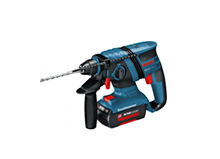
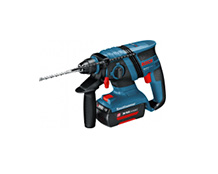
Размер 218х174

Changed region(s): [[0.1651, 0.2264, 0.7706, 0.8302]]

diff --git a/catalog.html b/catalog.html
@@ -65,7 +65,7 @@
             </h3>
             <p class="catalog-item-image">
               <a href="#">
-                <img src="img/produkt-1.jpg" width="220" height="159" alt="Перфоратор BOSCH BFG 3000">
+                <img src="img/produkt-1.jpg" width="218" height="174" alt="Перфоратор BOSCH BFG 3000">
               </a>
               <a class="button" href="#">Купить</a>
               <a class="button" href="#">В закладки</a>
@@ -81,7 +81,7 @@
             </h3>
             <p class="catalog-item-image">
               <a href="#">
-                <img src="img/produkt-2.jpg" width="220" height="159" alt="Перфоратор BOSCH BFG 6000">
+                <img src="img/produkt-2.jpg" width="218" height="174" alt="Перфоратор BOSCH BFG 6000">
               </a>
               <a class="button" href="#">Купить</a>
               <a class="button" href="#">В закладки</a>
@@ -97,7 +97,7 @@
             </h3>
             <p class="catalog-item-image">
               <a href="#">
-                <img src="img/produkt-1.jpg" width="220" height="159" alt="Перфоратор BOSCH BFG 2000">
+                <img src="img/produkt-1.jpg" width="218" height="174" alt="Перфоратор BOSCH BFG 2000">
               </a>
               <a class="button" href="#">Купить</a>
               <a class="button" href="#">В закладки</a>
@@ -112,7 +112,7 @@
             </h3>
             <p class="catalog-item-image">
               <a href="#">
-              <img src="img/produkt-1.jpg" width="220" height="159" alt="Перфоратор BOSCH BFG 3000">
+              <img src="img/produkt-1.jpg" width="218" height="174" alt="Перфоратор BOSCH BFG 3000">
               </a>
               <a class="button" href="#">Купить</a>
               <a class="button" href="#">В закладки</a>
@@ -128,7 +128,7 @@
             </h3>
             <p class="catalog-item-image">
               <a href="#">
-                <img src="img/produkt-2.jpg" width="220" height="159" alt="Перфоратор BOSCH BFG 6000">
+                <img src="img/produkt-2.jpg" width="218" height="174" alt="Перфоратор BOSCH BFG 6000">
               </a>
               <a class="button" href="#">Купить</a>
               <a class="button" href="#">В закладки</a>
@@ -144,7 +144,7 @@
             </h3>
             <p class="catalog-item-image">
               <a href="#">
-                <img src="img/produkt-1.jpg" width="220" height="159" alt="Перфоратор BOSCH BFG 2000">
+                <img src="img/produkt-1.jpg" width="218" height="174" alt="Перфоратор BOSCH BFG 2000">
               </a>
               <a class="button" href="#">Купить</a>
               <a class="button" href="#">В закладки</a>
@@ -159,7 +159,7 @@
             </h3>
             <p class="catalog-item-image">
               <a href="#">
-              <img src="img/produkt-1.jpg" width="220" height="159" alt="Перфоратор BOSCH BFG 3000">
+              <img src="img/produkt-1.jpg" width="218" height="174" alt="Перфоратор BOSCH BFG 3000">
               </a>
               <a class="button" href="#">Купить</a>
               <a class="button" href="#">В закладки</a>
@@ -175,7 +175,7 @@
             </h3>
             <p class="catalog-item-image">
               <a href="#">
-                <img src="img/produkt-2.jpg" width="220" height="159" alt="Перфоратор BOSCH BFG 6000">
+                <img src="img/produkt-2.jpg" width="218" height="174" alt="Перфоратор BOSCH BFG 6000">
               </a>
               <a class="button" href="#">Купить</a>
               <a class="button" href="#">В закладки</a>
@@ -191,7 +191,7 @@
             </h3>
             <p class="catalog-item-image">
               <a href="#">
-                <img src="img/produkt-1.jpg" width="220" height="159" alt="Перфоратор BOSCH BFG 2000">
+                <img src="img/produkt-1.jpg" width="218" height="174" alt="Перфоратор BOSCH BFG 2000">
               </a>
               <a class="button" href="#">Купить</a>
               <a class="button" href="#">В закладки</a>
